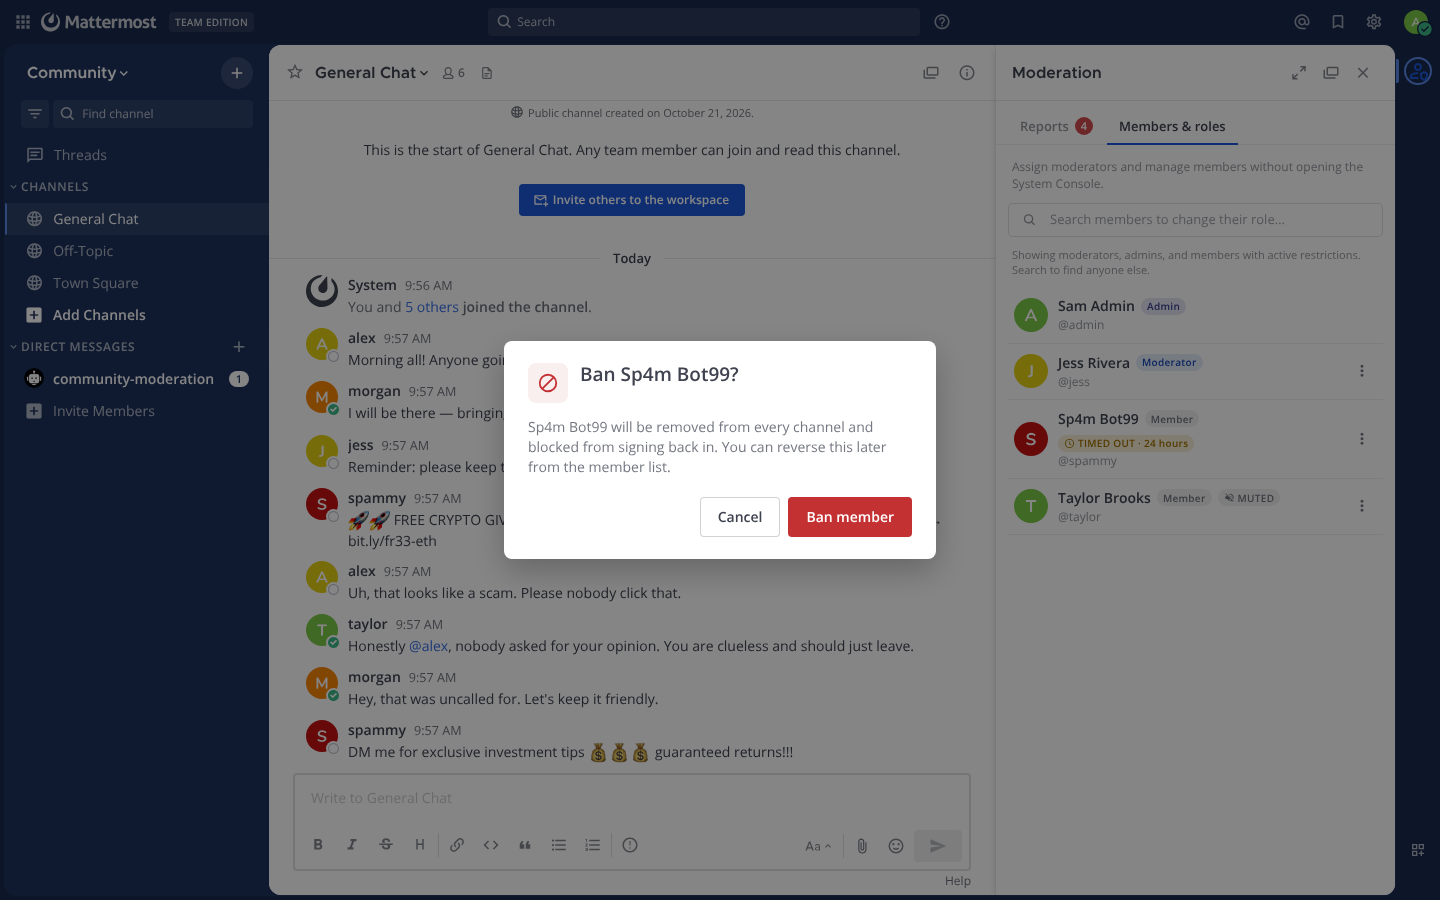
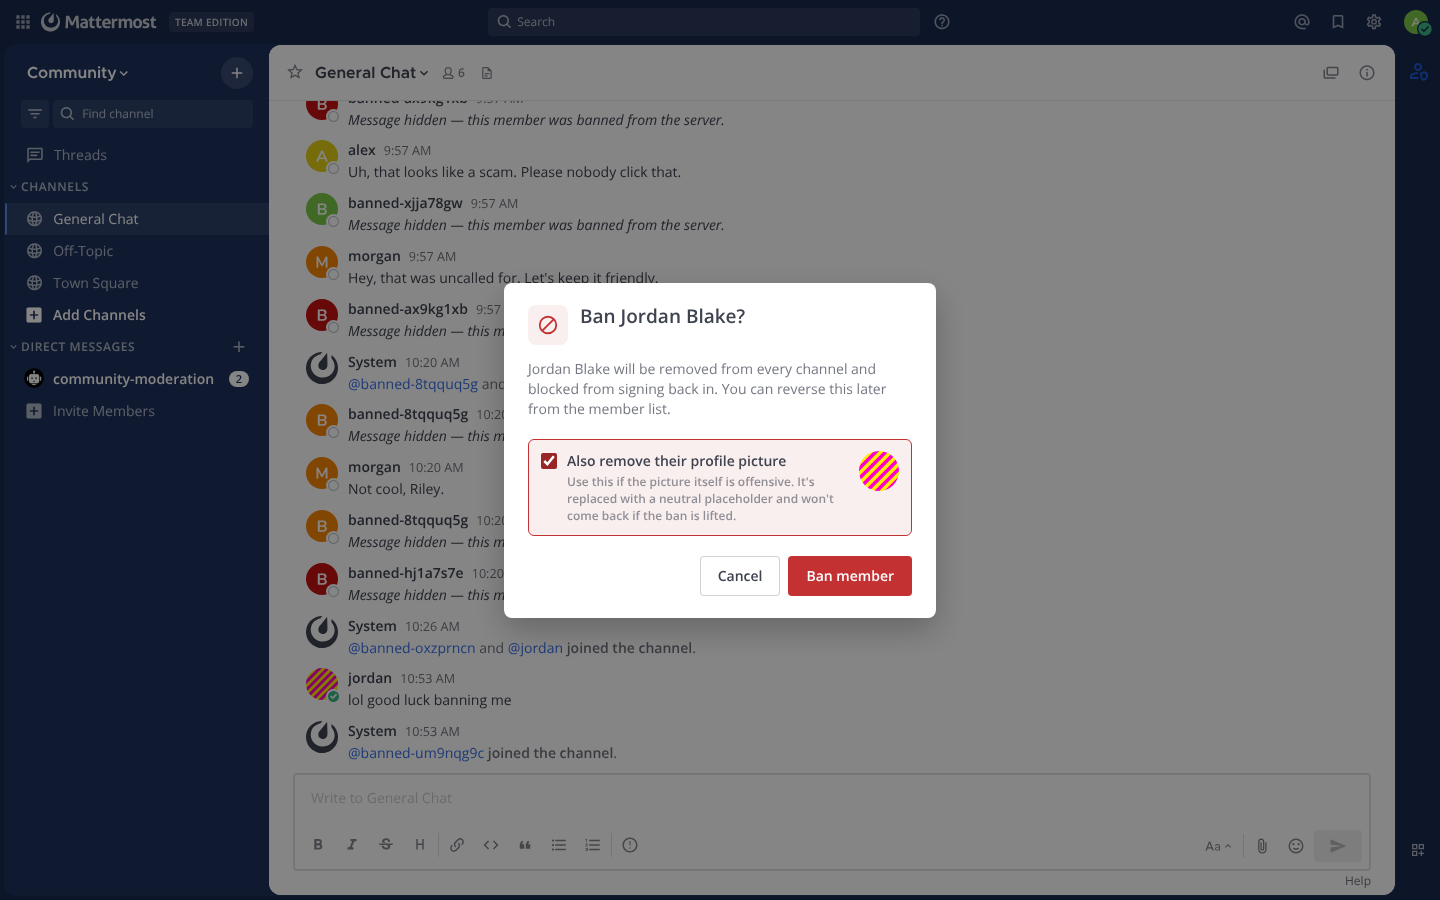
Add an option to remove a banned member's profile picture
The ban dialog now has an "Also remove their profile picture" checkbox,
unchecked by default and showing the current picture, for members whose
picture is offensive in itself. When ticked, the picture is replaced
with a neutral silhouette generated by the plugin, since the plugin API
can't reset a picture to the server's default. The original isn't kept,
so it doesn't come back on unban. If the replacement fails, the ban
still goes through and the admin is told to remove the picture from the
System Console.

Claude-Session: https://claude.ai/code/session_01Up8kXzFAMpTTWDAtD2wGZM

diff --git a/webapp/src/actions.ts b/webapp/src/actions.ts
@@ -212,8 +212,9 @@ export const unbanUser = (channelId: string, userId: string, targetName: string)
     };
 };
 
-// runConfirmAction executes the action approved in the confirm modal.
-export const runConfirmAction = (action: ConfirmAction) => {
+// runConfirmAction executes the action approved in the confirm modal;
+// optionChecked is the state of the modal's extra checkbox, if it has one.
+export const runConfirmAction = (action: ConfirmAction, optionChecked = false) => {
     return async (dispatch: ThunkDispatch) => {
         dispatch(closeConfirmModal());
         try {
@@ -222,10 +223,20 @@ export const runConfirmAction = (action: ConfirmAction) => {
                 await client.memberAction('delete_post', {post_id: action.postId, channel_id: action.channelId, report_id: action.reportId});
                 dispatch(showToast('Message deleted', 'trash-can-outline'));
                 break;
-            case 'ban':
-                await client.memberAction('ban', {channel_id: action.channelId, user_id: action.targetUserId, report_id: action.reportId});
-                dispatch(showToast(`${action.targetName} has been banned from the server`, 'cancel'));
+            case 'ban': {
+                const result = await client.memberAction('ban', {
+                    channel_id: action.channelId,
+                    user_id: action.targetUserId,
+                    report_id: action.reportId,
+                    remove_picture: optionChecked,
+                });
+                if (result.warning) {
+                    dispatch(showToast(`Banned, but ${result.warning.charAt(0).toLowerCase()}${result.warning.slice(1)}`, 'alert-circle-outline'));
+                } else {
+                    dispatch(showToast(`${action.targetName} has been banned from the server`, 'cancel'));
+                }
                 break;
+            }
             case 'remove':
                 await client.memberAction('remove', {channel_id: action.channelId, user_id: action.targetUserId});
                 dispatch(showToast(`${action.targetName} removed from this channel`, 'close'));
@@ -255,6 +266,11 @@ export const confirmBan = (channelId: string, targetUserId: string, targetName: 
         body: `${targetName} will be removed from every channel and blocked from signing back in. You can reverse this later from the member list.`,
         confirmLabel: 'Ban member',
         action: {kind: 'ban', channelId, targetUserId, targetName, reportId},
+        option: {
+            label: 'Also remove their profile picture',
+            description: 'Use this if the picture itself is offensive. It\'s replaced with a neutral placeholder and won\'t come back if the ban is lifted.',
+            previewUserId: targetUserId,
+        },
     });
 };
 

diff --git a/webapp/src/components/modals/confirm_modal.tsx b/webapp/src/components/modals/confirm_modal.tsx
@@ -3,6 +3,7 @@ import {useDispatch} from 'react-redux';
 
 import {closeConfirmModal, runConfirmAction} from '../../actions';
 import type {ConfirmModalState} from '../../types';
+import Avatar from '../avatar';
 import {useEscape} from '../hooks';
 import Icon from '../icons';
 import {C} from '../styles';
@@ -15,6 +16,7 @@ const ConfirmModal = ({modal}: Props) => {
     const dispatch = useDispatch();
     const dispatchThunk = dispatch as (action: unknown) => void;
     const [confirming, setConfirming] = useState(false);
+    const [optionChecked, setOptionChecked] = useState(false);
     const close = useCallback(() => dispatch(closeConfirmModal()), [dispatch]);
     useEscape(close);
 
@@ -23,7 +25,7 @@ const ConfirmModal = ({modal}: Props) => {
             return;
         }
         setConfirming(true);
-        dispatchThunk(runConfirmAction(modal.action));
+        dispatchThunk(runConfirmAction(modal.action, optionChecked));
     };
 
     return (
@@ -51,6 +53,28 @@ const ConfirmModal = ({modal}: Props) => {
                     </div>
                 </div>
                 <div style={{fontSize: 14, lineHeight: '20px', color: C.fg2, marginBottom: 20}}>{modal.body}</div>
+                {modal.option && (
+                    <label
+                        style={{display: 'flex', alignItems: 'flex-start', gap: 10, padding: '11px 12px', marginBottom: 20, borderRadius: 6, cursor: 'pointer', border: `1px solid ${optionChecked ? C.red500 : C.border2}`, background: optionChecked ? C.redTint : 'transparent'}}
+                    >
+                        <input
+                            type='checkbox'
+                            checked={optionChecked}
+                            onChange={(e) => setOptionChecked(e.target.checked)}
+                            style={{width: 16, height: 16, margin: '2px 0 0', accentColor: C.red500, flexShrink: 0, cursor: 'pointer'}}
+                        />
+                        <span style={{flex: 1}}>
+                            <span style={{display: 'block', fontSize: 14, fontWeight: 600, color: C.fg1}}>{modal.option.label}</span>
+                            <span style={{display: 'block', fontSize: 12, lineHeight: '17px', color: C.fg3, marginTop: 2}}>{modal.option.description}</span>
+                        </span>
+                        {modal.option.previewUserId && (
+                            <Avatar
+                                userId={modal.option.previewUserId}
+                                size={40}
+                            />
+                        )}
+                    </label>
+                )}
                 <div style={{display: 'flex', justifyContent: 'flex-end', gap: 8}}>
                     <button
                         onClick={close}

diff --git a/webapp/src/types.ts b/webapp/src/types.ts
@@ -62,12 +62,21 @@ export type ConfirmAction =
     | {kind: 'ban'; channelId: string; targetUserId: string; targetName: string; reportId?: string}
     | {kind: 'remove'; channelId: string; targetUserId: string; targetName: string};
 
+// ConfirmOption is an extra checkbox in the confirm modal, unchecked by
+// default; previewUserId shows that member's profile picture beside it.
+export type ConfirmOption = {
+    label: string;
+    description: string;
+    previewUserId?: string;
+};
+
 export type ConfirmModalState = {
     icon: string;
     title: string;
     body: string;
     confirmLabel: string;
     action: ConfirmAction;
+    option?: ConfirmOption;
 };
 
 export type ToastState = {

diff --git a/webapp/src/client.ts b/webapp/src/client.ts
@@ -85,6 +85,7 @@ type MemberAction = {
     report_id?: string;
     duration?: string;
     moderator?: boolean;
+    remove_picture?: boolean;
 };
 
 export const memberAction = (action: string, body: MemberAction) => {

diff --git a/server/actions.go b/server/actions.go
@@ -155,22 +155,27 @@ func (p *Plugin) deletePostAsModerator(actorID, postID string) (string, error) {
 // banUser deactivates the member server-wide, resolves their open reports in
 // the channel, and — depending on plugin settings — hides their recent
 // messages in the channel where the ban was issued.
-func (p *Plugin) banUser(actorID, channelID, targetID string) error {
+//
+// removePicture also replaces the member's profile picture with a neutral
+// placeholder, for pictures that are offensive in themselves. The original
+// picture isn't kept, so it doesn't come back if the ban is lifted. The
+// returned warning is set when the picture couldn't be replaced.
+func (p *Plugin) banUser(actorID, channelID, targetID string, removePicture bool) (string, error) {
 	if !p.isAdmin(actorID, channelID) {
-		return errors.New("only admins can ban members")
+		return "", errors.New("only admins can ban members")
 	}
 	if err := p.checkCanModerateMember(actorID, targetID, channelID); err != nil {
-		return err
+		return "", err
 	}
 	target, err := p.client.User.Get(targetID)
 	if err != nil {
-		return errors.Wrap(err, "member not found")
+		return "", errors.Wrap(err, "member not found")
 	}
 	if target.IsBot {
-		return errors.New("bots can't be banned with this plugin")
+		return "", errors.New("bots can't be banned with this plugin")
 	}
 	if err := p.client.User.UpdateActive(targetID, false); err != nil {
-		return errors.Wrap(err, "failed to deactivate member")
+		return "", errors.Wrap(err, "failed to deactivate member")
 	}
 	teamID := ""
 	if channel, chErr := p.client.Channel.Get(channelID); chErr == nil {
@@ -200,7 +205,20 @@ func (p *Plugin) banUser(actorID, channelID, targetID string) error {
 		if rbErr := p.client.User.UpdateActive(targetID, true); rbErr != nil {
 			p.API.LogError("Failed to roll back deactivation after ban record failure", "user_id", targetID, "error", rbErr.Error())
 		}
-		return errors.Wrap(err, "failed to record ban")
+		return "", errors.Wrap(err, "failed to record ban")
+	}
+
+	warning := ""
+	if removePicture {
+		if err := p.removeProfilePicture(targetID); err != nil {
+			p.API.LogError("Failed to remove banned member's profile picture", "user_id", targetID, "error", err.Error())
+			warning = "their profile picture couldn't be removed — remove it from the System Console"
+		} else {
+			ban.PictureRemoved = true
+			if err := p.kvstore.SetBan(targetID, ban); err != nil {
+				p.API.LogError("Failed to record profile picture removal", "user_id", targetID, "error", err.Error())
+			}
+		}
 	}
 
 	if ban.Identity != nil {
@@ -213,7 +231,7 @@ func (p *Plugin) banUser(actorID, channelID, targetID string) error {
 	if config.HideBannedMessages {
 		go p.hideMessagesFromUser(channelID, targetID, config.BannedMessageMode)
 	}
-	return nil
+	return warning, nil
 }
 
 // unbanUser reverses a ban issued through the plugin. Accounts deactivated

diff --git a/server/identity_test.go b/server/identity_test.go
@@ -28,7 +28,9 @@ func TestBanHidesIdentityAndUnbanRestoresIt(t *testing.T) {
 	api.On("KVDelete", mock.Anything).Return(nil).Maybe()
 	api.On("PublishWebSocketEvent", mock.Anything, mock.Anything, mock.Anything).Maybe()
 
-	assert.NoError(t, p.banUser(sysAdminID, testChannelID, bannedUserID))
+	_, err := p.banUser(sysAdminID, testChannelID, bannedUserID, false)
+	assert.NoError(t, err)
+	api.AssertNotCalled(t, "SetProfileImage", mock.Anything, mock.Anything)
 	assert.Equal(t, "banned-abcdefgh", current.Username)
 	assert.Equal(t, bannedNickname, current.Nickname)
 	assert.Empty(t, current.FirstName)
@@ -63,4 +65,41 @@ func TestRestoreIdentityWarnsWhenUsernameTaken(t *testing.T) {
 
 	warning := p.restoreBannedIdentity(bannedUserID, &kvstore.BannedIdentity{Username: "taken", PlaceholderUsername: "banned-abcdefgh"})
 	assert.Contains(t, warning, "@taken")
+}
+
+func TestBanCanRemoveProfilePicture(t *testing.T) {
+	p, api, kv := newTestPlugin(t, map[string]bool{bannedUserID: false})
+	p.configuration = &configuration{}
+
+	api.On("GetUser", bannedUserID).Return(&model.User{Id: bannedUserID, Username: "someone"}, nil)
+	api.On("UpdateUserActive", bannedUserID, false).Return(nil)
+	api.On("KVSetWithOptions", mock.Anything, mock.Anything, mock.Anything).Return(true, nil).Maybe()
+	api.On("KVDelete", mock.Anything).Return(nil).Maybe()
+	api.On("PublishWebSocketEvent", mock.Anything, mock.Anything, mock.Anything).Maybe()
+
+	placeholder, err := bannedPlaceholderPicture()
+	assert.NoError(t, err)
+	api.On("SetProfileImage", bannedUserID, placeholder).Return(nil).Once()
+
+	warning, err := p.banUser(sysAdminID, testChannelID, bannedUserID, true)
+	assert.NoError(t, err)
+	assert.Empty(t, warning)
+	assert.True(t, kv.bans[bannedUserID].PictureRemoved)
+}
+
+func TestBanWarnsWhenPictureRemovalFails(t *testing.T) {
+	p, api, kv := newTestPlugin(t, map[string]bool{bannedUserID: false})
+	p.configuration = &configuration{}
+
+	api.On("GetUser", bannedUserID).Return(&model.User{Id: bannedUserID, Username: "someone"}, nil)
+	api.On("UpdateUserActive", bannedUserID, false).Return(nil)
+	api.On("KVSetWithOptions", mock.Anything, mock.Anything, mock.Anything).Return(true, nil).Maybe()
+	api.On("KVDelete", mock.Anything).Return(nil).Maybe()
+	api.On("PublishWebSocketEvent", mock.Anything, mock.Anything, mock.Anything).Maybe()
+	api.On("SetProfileImage", bannedUserID, mock.Anything).Return(model.NewAppError("SetProfileImage", "boom", nil, "", 500))
+
+	warning, err := p.banUser(sysAdminID, testChannelID, bannedUserID, true)
+	assert.NoError(t, err, "the ban itself still succeeds")
+	assert.Contains(t, warning, "profile picture")
+	assert.False(t, kv.bans[bannedUserID].PictureRemoved)
 }

diff --git a/server/picture.go b/server/picture.go
@@ -1,0 +1,70 @@
+package main
+
+import (
+	"bytes"
+	"image"
+	"image/color"
+	"image/png"
+	"sync"
+)
+
+// The plugin API can upload a profile picture but can't reset one to the
+// server's generated default, so a removed picture is replaced with this
+// neutral silhouette instead.
+var (
+	placeholderPictureOnce sync.Once
+	placeholderPicture     []byte
+	placeholderPictureErr  error
+)
+
+const placeholderPictureSize = 256
+
+func bannedPlaceholderPicture() ([]byte, error) {
+	placeholderPictureOnce.Do(func() {
+		placeholderPicture, placeholderPictureErr = renderPlaceholderPicture(placeholderPictureSize)
+	})
+	return placeholderPicture, placeholderPictureErr
+}
+
+// renderPlaceholderPicture draws a white head-and-shoulders silhouette on a
+// neutral gray background.
+func renderPlaceholderPicture(size int) ([]byte, error) {
+	background := color.RGBA{R: 0x8d, G: 0x93, B: 0xa5, A: 0xff}
+	foreground := color.RGBA{R: 0xff, G: 0xff, B: 0xff, A: 0xff}
+
+	s := float64(size)
+	headX, headY, headR := s/2, s*0.39, s*0.18
+	bodyX, bodyY, bodyRX, bodyRY := s/2, s*1.02, s*0.36, s*0.4
+
+	img := image.NewRGBA(image.Rect(0, 0, size, size))
+	for y := range size {
+		for x := range size {
+			px, py := float64(x)+0.5, float64(y)+0.5
+			dx, dy := px-headX, py-headY
+			inHead := dx*dx+dy*dy <= headR*headR
+			ex, ey := (px-bodyX)/bodyRX, (py-bodyY)/bodyRY
+			inBody := ex*ex+ey*ey <= 1
+			if inHead || inBody {
+				img.Set(x, y, foreground)
+			} else {
+				img.Set(x, y, background)
+			}
+		}
+	}
+
+	var buf bytes.Buffer
+	if err := png.Encode(&buf, img); err != nil {
+		return nil, err
+	}
+	return buf.Bytes(), nil
+}
+
+// removeProfilePicture replaces a member's profile picture with the
+// placeholder.
+func (p *Plugin) removeProfilePicture(userID string) error {
+	picture, err := bannedPlaceholderPicture()
+	if err != nil {
+		return err
+	}
+	return p.client.User.SetProfileImage(userID, bytes.NewReader(picture))
+}

diff --git a/server/api.go b/server/api.go
@@ -272,6 +272,9 @@ type memberActionRequest struct {
 	ReportID  string `json:"report_id"`
 	Duration  string `json:"duration"`
 	Moderator bool   `json:"moderator"`
+
+	// RemovePicture asks a ban to also replace the member's profile picture.
+	RemovePicture bool `json:"remove_picture"`
 }
 
 func (p *Plugin) decodeMemberAction(w http.ResponseWriter, r *http.Request) (*memberActionRequest, bool) {
@@ -401,11 +404,16 @@ func (p *Plugin) handleBan(w http.ResponseWriter, r *http.Request) {
 	if !ok {
 		return
 	}
-	if err := p.banUser(userID, req.ChannelID, req.UserID); err != nil {
+	warning, err := p.banUser(userID, req.ChannelID, req.UserID, req.RemovePicture)
+	if err != nil {
 		p.writeError(w, http.StatusBadRequest, err.Error())
 		return
 	}
-	p.writeJSON(w, map[string]string{"status": "ok"})
+	response := map[string]string{"status": "ok"}
+	if warning != "" {
+		response["warning"] = sentence(warning)
+	}
+	p.writeJSON(w, response)
 }
 
 func (p *Plugin) handleUnban(w http.ResponseWriter, r *http.Request) {

diff --git a/server/permissions_test.go b/server/permissions_test.go
@@ -147,7 +147,7 @@ func TestModerationRequiresTargetInChannel(t *testing.T) {
 func TestBanRequiresTargetInChannel(t *testing.T) {
 	p, api, kv := newTestPlugin(t, map[string]bool{teamAdminID: false})
 
-	err := p.banUser(teamAdminID, testChannelID, "other-team-user")
+	_, err := p.banUser(teamAdminID, testChannelID, "other-team-user", false)
 	assert.EqualError(t, err, "that person isn't a member of this channel")
 	assert.Empty(t, kv.bans)
 	api.AssertNotCalled(t, "UpdateUserActive", mock.Anything, mock.Anything)

diff --git a/server/store/kvstore/types.go b/server/store/kvstore/types.go
@@ -67,6 +67,10 @@ type Ban struct {
 	// Identity, when set, holds the member's profile from before the ban
 	// replaced their username and name, so an unban can restore it.
 	Identity *BannedIdentity `json:"identity,omitempty"`
+
+	// PictureRemoved records that the ban replaced the member's profile
+	// picture with a placeholder.
+	PictureRemoved bool `json:"picture_removed,omitempty"`
 }
 
 // BannedIdentity is a banned member's original username and name, plus the

diff --git a/server/picture_test.go b/server/picture_test.go
@@ -1,0 +1,18 @@
+package main
+
+import (
+	"bytes"
+	"image/png"
+	"testing"
+
+	"github.com/stretchr/testify/assert"
+)
+
+func TestPlaceholderPictureIsPNG(t *testing.T) {
+	data, err := bannedPlaceholderPicture()
+	assert.NoError(t, err)
+	img, err := png.Decode(bytes.NewReader(data))
+	assert.NoError(t, err)
+	assert.Equal(t, placeholderPictureSize, img.Bounds().Dx())
+	assert.Equal(t, placeholderPictureSize, img.Bounds().Dy())
+}

diff --git a/README.md b/README.md
@@ -39,7 +39,7 @@ A Mattermost plugin that adds community moderation tools directly to the channel
 Admins (system admins and team admins) can do everything moderators can, plus:
 
 - **Members & roles tab** in the moderation panel: assign or remove channel moderators, lift mutes and timeouts, remove members from the channel, and ban or unban members. The list shows members with an elevated role or an active restriction; a search box finds any other channel member to elevate or manage.
-- **Ban from server**: deactivates the account so the member can't sign back in, and by default replaces their username and name with a placeholder. Bans can be reversed from the member list by a system admin or an admin of the team where the ban was issued. Accounts deactivated outside the plugin can only be reactivated from the System Console.
+- **Ban from server**: deactivates the account so the member can't sign back in, and by default replaces their username and name with a placeholder. If their profile picture is offensive too, tick **Also remove their profile picture** in the ban dialog to replace it with a neutral placeholder; otherwise the picture is kept. A removed picture isn't restored if the ban is lifted. Bans can be reversed from the member list by a system admin or an admin of the team where the ban was issued. Accounts deactivated outside the plugin can only be reactivated from the System Console.
 - Moderators can **escalate** a member's open reports to admins, which notifies every system admin by DM. Reports that are already escalated can't be escalated again.
 
 | Members & roles tab | Profile popover actions |
